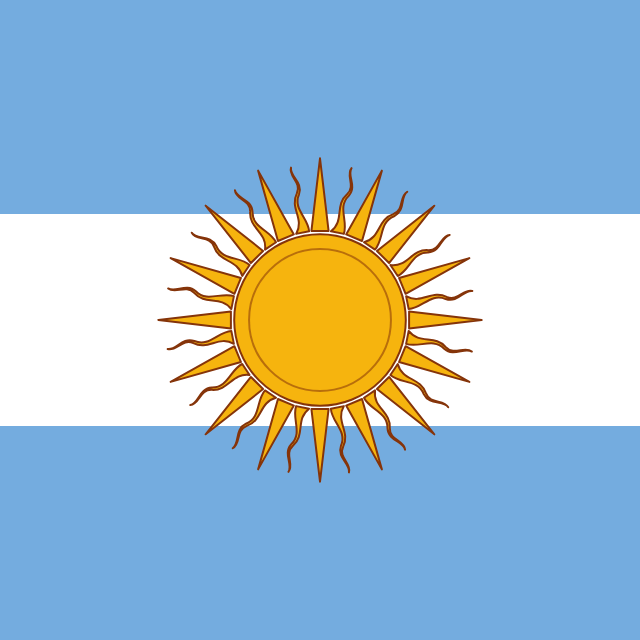
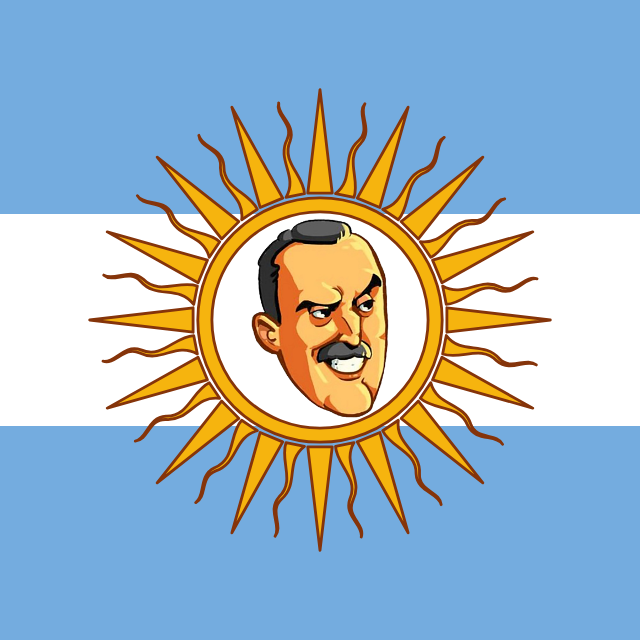
Cara de Moreno en el centro del Sol de Mayo
- Sticker recortado (fondo transparente) sobre disco blanco: portada, encabezado y avatar de las respuestas
- Imagen para redes, apple-icon y foto del bot actualizadas

diff --git a/src/components/moreno/preguntale-a-moreno.tsx b/src/components/moreno/preguntale-a-moreno.tsx
@@ -132,7 +132,7 @@ export function PreguntaleAMoreno({ telegramUrl }: { telegramUrl?: string }) {
     <div className="flex h-dvh flex-col bg-blanco">
       <div className="franja h-1.5 shrink-0" aria-hidden />
       <header className="flex items-center gap-2.5 border-b border-celeste/40 px-4 py-2 sm:px-6">
-        <SolDeMayo className="h-9 w-9" />
+        <SolDeMayo cara className="h-9 w-9" />
         <span className="whitespace-nowrap font-afiche text-xl uppercase leading-none tracking-wide text-tinta sm:text-2xl">
           Preguntale a Moreno
         </span>
@@ -179,7 +179,7 @@ export function PreguntaleAMoreno({ telegramUrl }: { telegramUrl?: string }) {
             ))}
             {loading && (
               <div className="flex items-end gap-2 self-start" aria-label="Moreno está escribiendo">
-                <SolDeMayo className="h-7 w-7 shrink-0" />
+                <SolDeMayo cara className="h-10 w-10 shrink-0" />
                 <div className="flex items-center gap-1.5 rounded-2xl rounded-bl-sm bg-celeste-claro px-4 py-3.5">
                   <span className="typing-dot h-2 w-2 rounded-full bg-celeste-hondo" />
                   <span className="typing-dot h-2 w-2 rounded-full bg-celeste-hondo" />
@@ -249,7 +249,7 @@ function Portada({ onPick }: { onPick: (q: string) => void }) {
           Preguntale a
         </span>
         <span className="flex justify-center bg-blanco py-4" aria-hidden>
-          <SolDeMayo className="sol-entra h-[clamp(6.5rem,20vw,10rem)] w-[clamp(6.5rem,20vw,10rem)]" />
+          <SolDeMayo cara className="sol-entra h-[clamp(8.5rem,30vw,13rem)] w-[clamp(8.5rem,30vw,13rem)]" />
         </span>
         <span className="block bg-celeste px-4 pb-5 pt-2 text-center text-[clamp(4rem,19vw,10rem)] tracking-wide">
           Moreno
@@ -341,7 +341,7 @@ function Burbuja({
   const fuentes = m.frasesFuente ?? [];
   return (
     <div className="flex max-w-[92%] items-start gap-2 self-start">
-      <SolDeMayo className="mt-1 h-7 w-7 shrink-0" />
+      <SolDeMayo cara className="h-10 w-10 shrink-0" />
       <div className="flex min-w-0 flex-col">
         <div className="whitespace-pre-wrap rounded-2xl rounded-tl-sm bg-celeste-claro px-4 py-3 text-base leading-relaxed text-tinta">
           {m.content}

diff --git a/src/components/moreno/sol-de-mayo.tsx b/src/components/moreno/sol-de-mayo.tsx
@@ -1,7 +1,8 @@
 // Sol de Mayo: 32 rayos alternados, rectos y flamígeros, como en la bandera. Dibujo propio en SVG.
+// Con `cara`, lleva en el centro el sticker de Moreno sobre un disco blanco.
 const RAYOS = Array.from({ length: 32 }, (_, i) => i);
 
-export function SolDeMayo({ className, title }: { className?: string; title?: string }) {
+export function SolDeMayo({ className, title, cara = false }: { className?: string; title?: string; cara?: boolean }) {
   return (
     <svg viewBox="-50 -50 100 100" className={className} role={title ? "img" : undefined} aria-hidden={title ? undefined : true}>
       {title && <title>{title}</title>}
@@ -19,7 +20,14 @@ export function SolDeMayo({ className, title }: { className?: string; title?: st
         )}
         <circle r="26" />
       </g>
-      <circle r="21.5" fill="none" stroke="var(--sol-borde)" strokeWidth="0.6" opacity="0.55" />
+      {cara ? (
+        <>
+          <circle r="23" fill="var(--blanco)" stroke="var(--sol-borde)" strokeWidth="0.6" />
+          <image href="/moreno-cara.png" x="-14.6" y="-21.5" width="29.2" height="42.3" />
+        </>
+      ) : (
+        <circle r="21.5" fill="none" stroke="var(--sol-borde)" strokeWidth="0.6" opacity="0.55" />
+      )}
     </svg>
   );
 }
